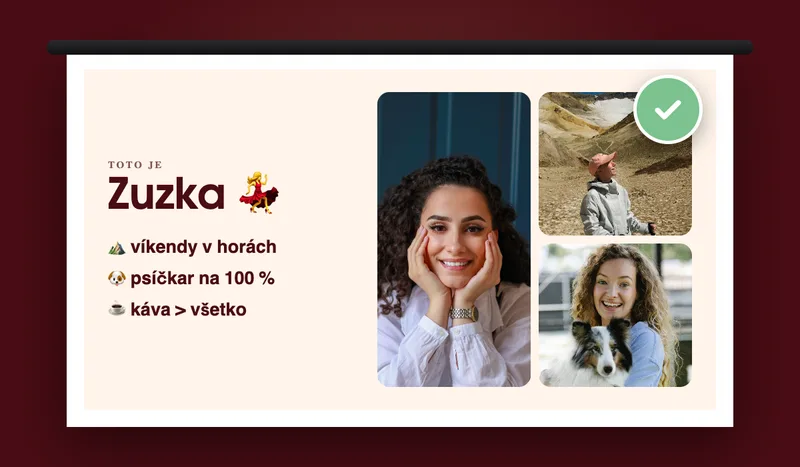
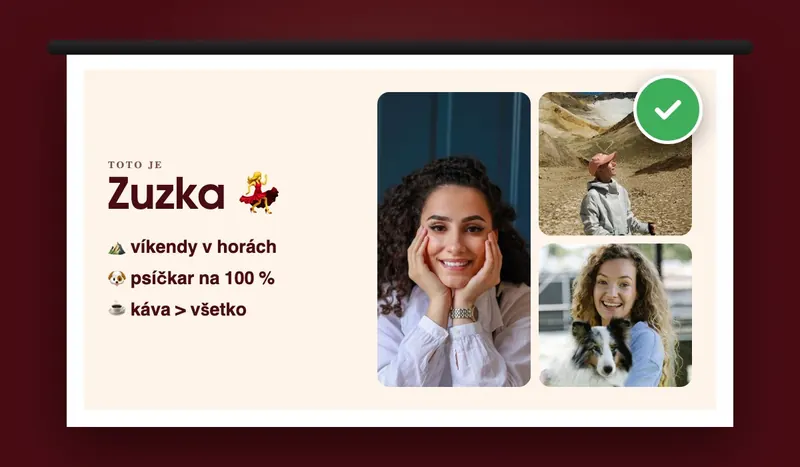
Späť: pôvodné odznaky na ukážkových slajdoch

Changed region(s): [[0.7812, 0.1499, 0.875, 0.2998]]

diff --git a/pravidla-prezentacie.html b/pravidla-prezentacie.html
@@ -103,8 +103,8 @@
 
           <h2>Ako to vyzerá v praxi</h2>
           <div class="pres-compare">
-            <figure><img src="img/prezentacia-nie.webp?v=3" srcset="img/prezentacia-nie-800.webp?v=3 800w, img/prezentacia-nie.webp?v=3 1200w" sizes="(max-width: 760px) 100vw, 50vw" alt="Nesprávny slajd: dlhý nadpis, odseky drobného textu a deväť malých fotiek – takto nie" width="1200" height="700" loading="lazy"></figure>
-            <figure><img src="img/prezentacia-ano.webp?v=3" srcset="img/prezentacia-ano-800.webp?v=3 800w, img/prezentacia-ano.webp?v=3 1200w" sizes="(max-width: 760px) 100vw, 50vw" alt="Správny slajd: veľké meno Zuzka, tri krátke heslá a tri veľké fotky – takto áno" width="1200" height="700" loading="lazy"></figure>
+            <figure><img src="img/prezentacia-nie.webp?v=2" srcset="img/prezentacia-nie-800.webp?v=2 800w, img/prezentacia-nie.webp?v=2 1200w" sizes="(max-width: 760px) 100vw, 50vw" alt="Nesprávny slajd: dlhý nadpis, odseky drobného textu a deväť malých fotiek – takto nie" width="1200" height="700" loading="lazy"></figure>
+            <figure><img src="img/prezentacia-ano.webp?v=2" srcset="img/prezentacia-ano-800.webp?v=2 800w, img/prezentacia-ano.webp?v=2 1200w" sizes="(max-width: 760px) 100vw, 50vw" alt="Správny slajd: veľké meno Zuzka, tri krátke heslá a tri veľké fotky – takto áno" width="1200" height="700" loading="lazy"></figure>
           </div>
 
           <h2>Technické detaily</h2>
